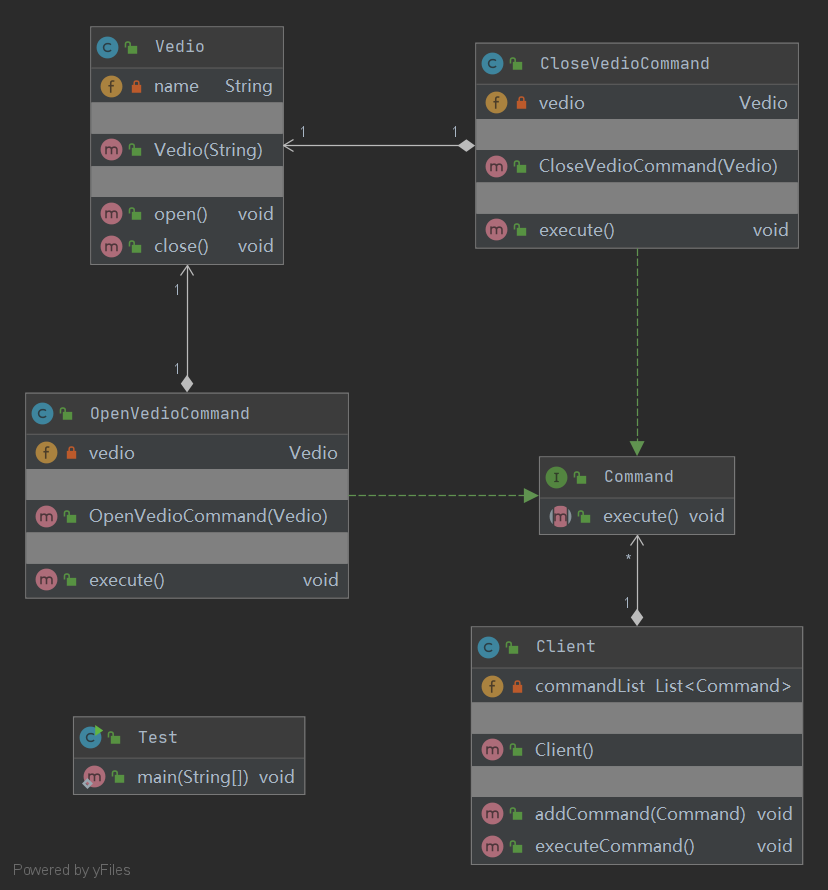
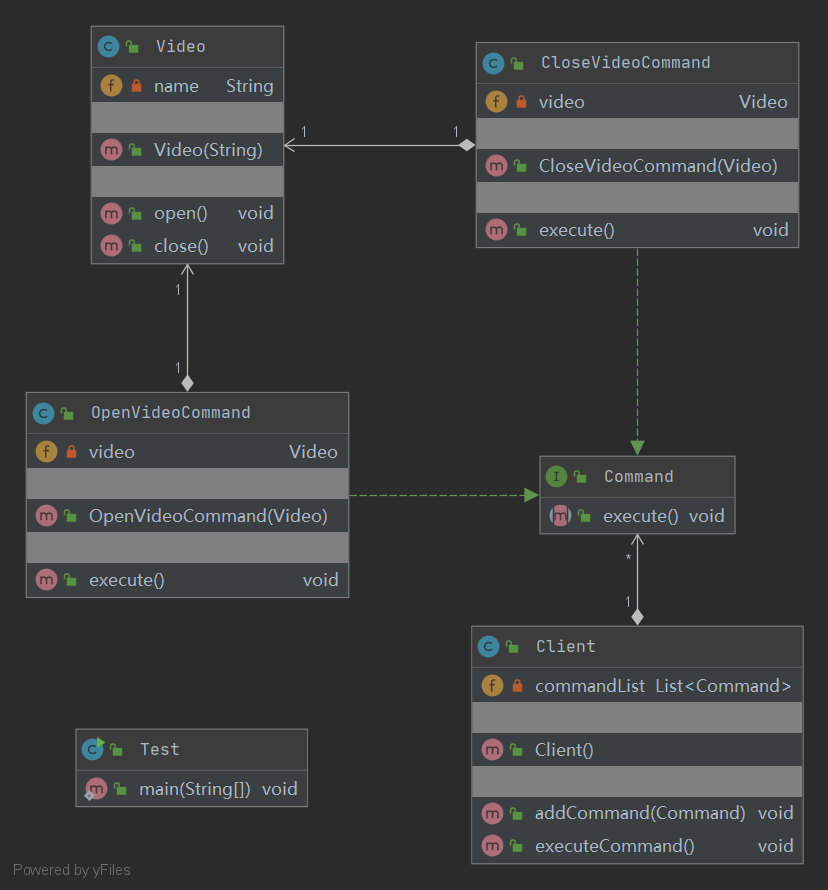
update command 命令模式

diff --git a/pattern/src/behavioral/command/java/Test.java b/pattern/src/behavioral/command/java/Test.java
@@ -2,12 +2,12 @@ package behavioral.command.java;
 
 public class Test {
     public static void main(String[] args) {
-//        Vedio vedio = new Vedio("视频：网抑云终结者");
-//        OpenVedioCommand openVedioCommand = new OpenVedioCommand(vedio);
-//        CloseVedioCommand closeVedioCommand = new CloseVedioCommand(vedio);
+//        Video video = new Video("视频：网抑云终结者");
+//        OpenVideoCommand openVideoCommand = new OpenVideoCommand(video);
+//        CloseVideoCommand closeVideoCommand = new CloseVideoCommand(video);
 //        Client client = new Client();
-//        client.addCommand(openVedioCommand);
-//        client.addCommand(closeVedioCommand);
+//        client.addCommand(openVideoCommand);
+//        client.addCommand(closeVideoCommand);
 //
 //        client.executeCommand();
     }

diff --git a/pattern/src/behavioral/command/java/CloseVideoCommand.java b/pattern/src/behavioral/command/java/CloseVideoCommand.java
@@ -1,0 +1,14 @@
+package behavioral.command.java;
+
+public class CloseVideoCommand implements Command {
+    private Video video;
+
+    public CloseVideoCommand(Video video) {
+        this.video = video;
+    }
+
+    @Override
+    public void execute() {
+        video.close();
+    }
+}

diff --git a/pattern/src/behavioral/command/java/OpenVideoCommand.java b/pattern/src/behavioral/command/java/OpenVideoCommand.java
@@ -1,0 +1,14 @@
+package behavioral.command.java;
+
+public class OpenVideoCommand implements Command{
+    private Video video;
+
+    public OpenVideoCommand(Video video) {
+        this.video = video;
+    }
+
+    @Override
+    public void execute() {
+        video.open();
+    }
+}

diff --git a/pattern/src/behavioral/command/java/Video.java b/pattern/src/behavioral/command/java/Video.java
@@ -1,9 +1,9 @@
 package behavioral.command.java;
 
-public class Vedio {
+public class Video {
     private String name;
 
-    public Vedio(String name) {
+    public Video(String name) {
         this.name = name;
     }
 
